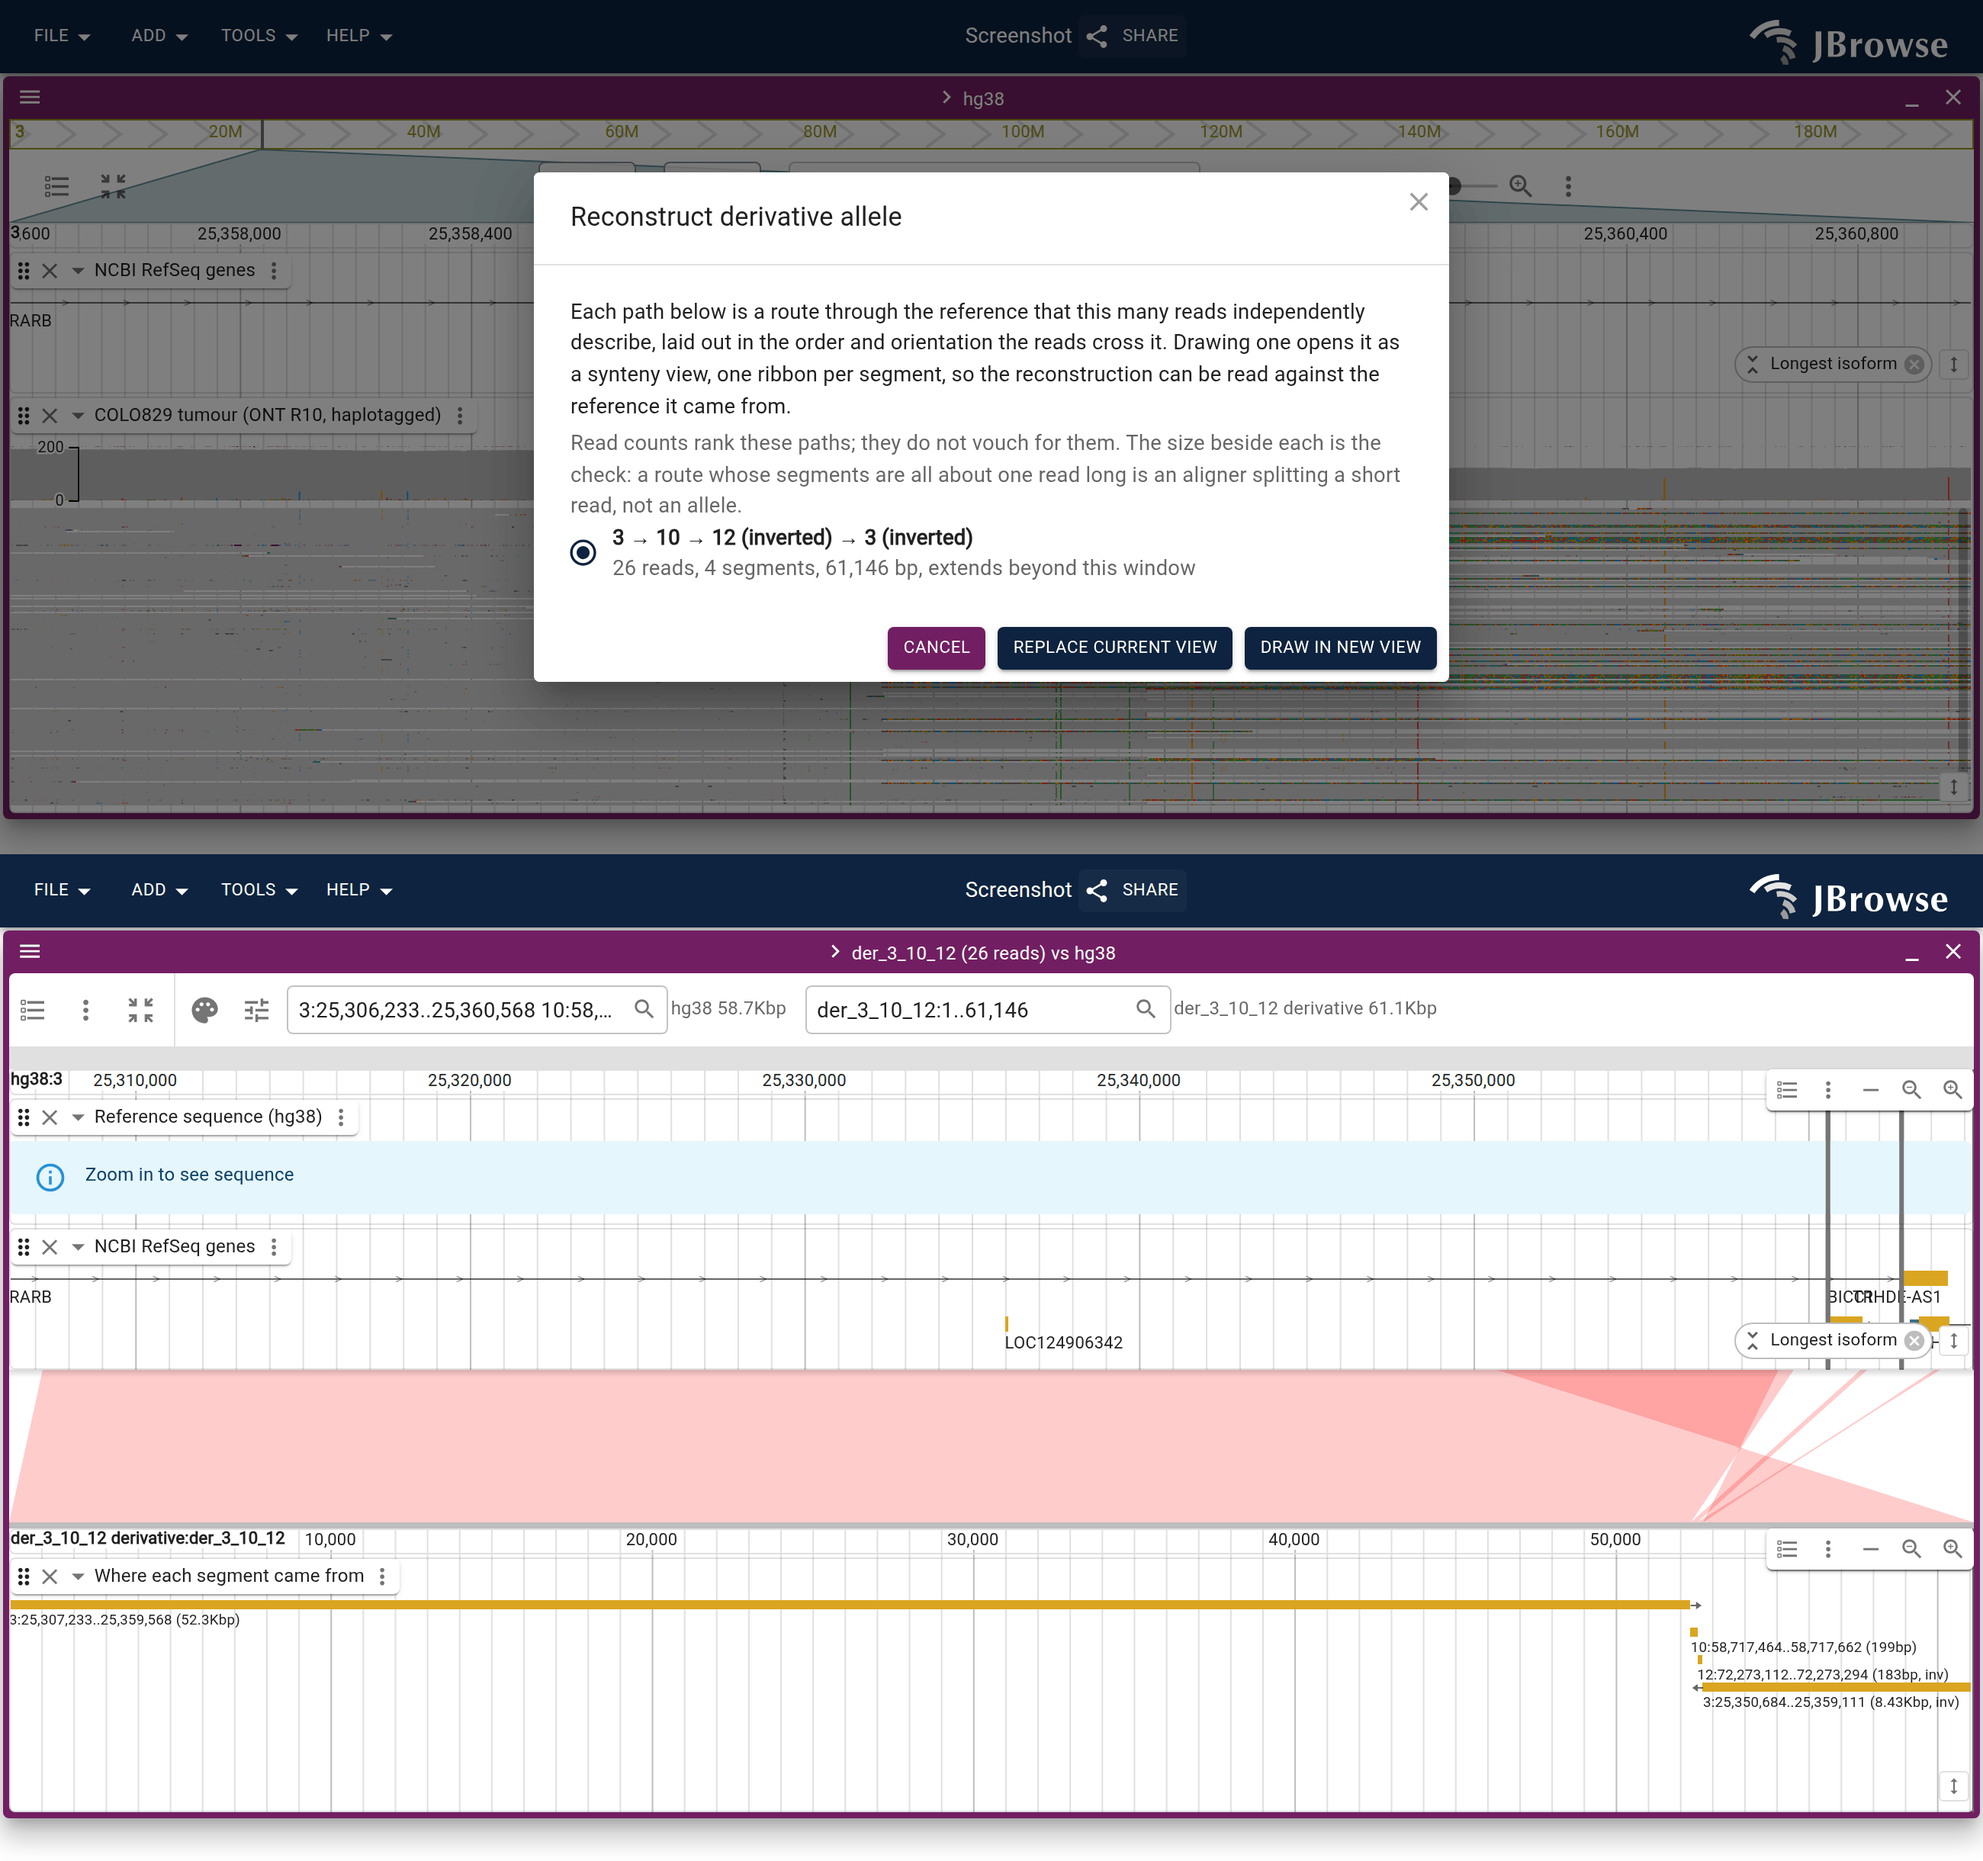
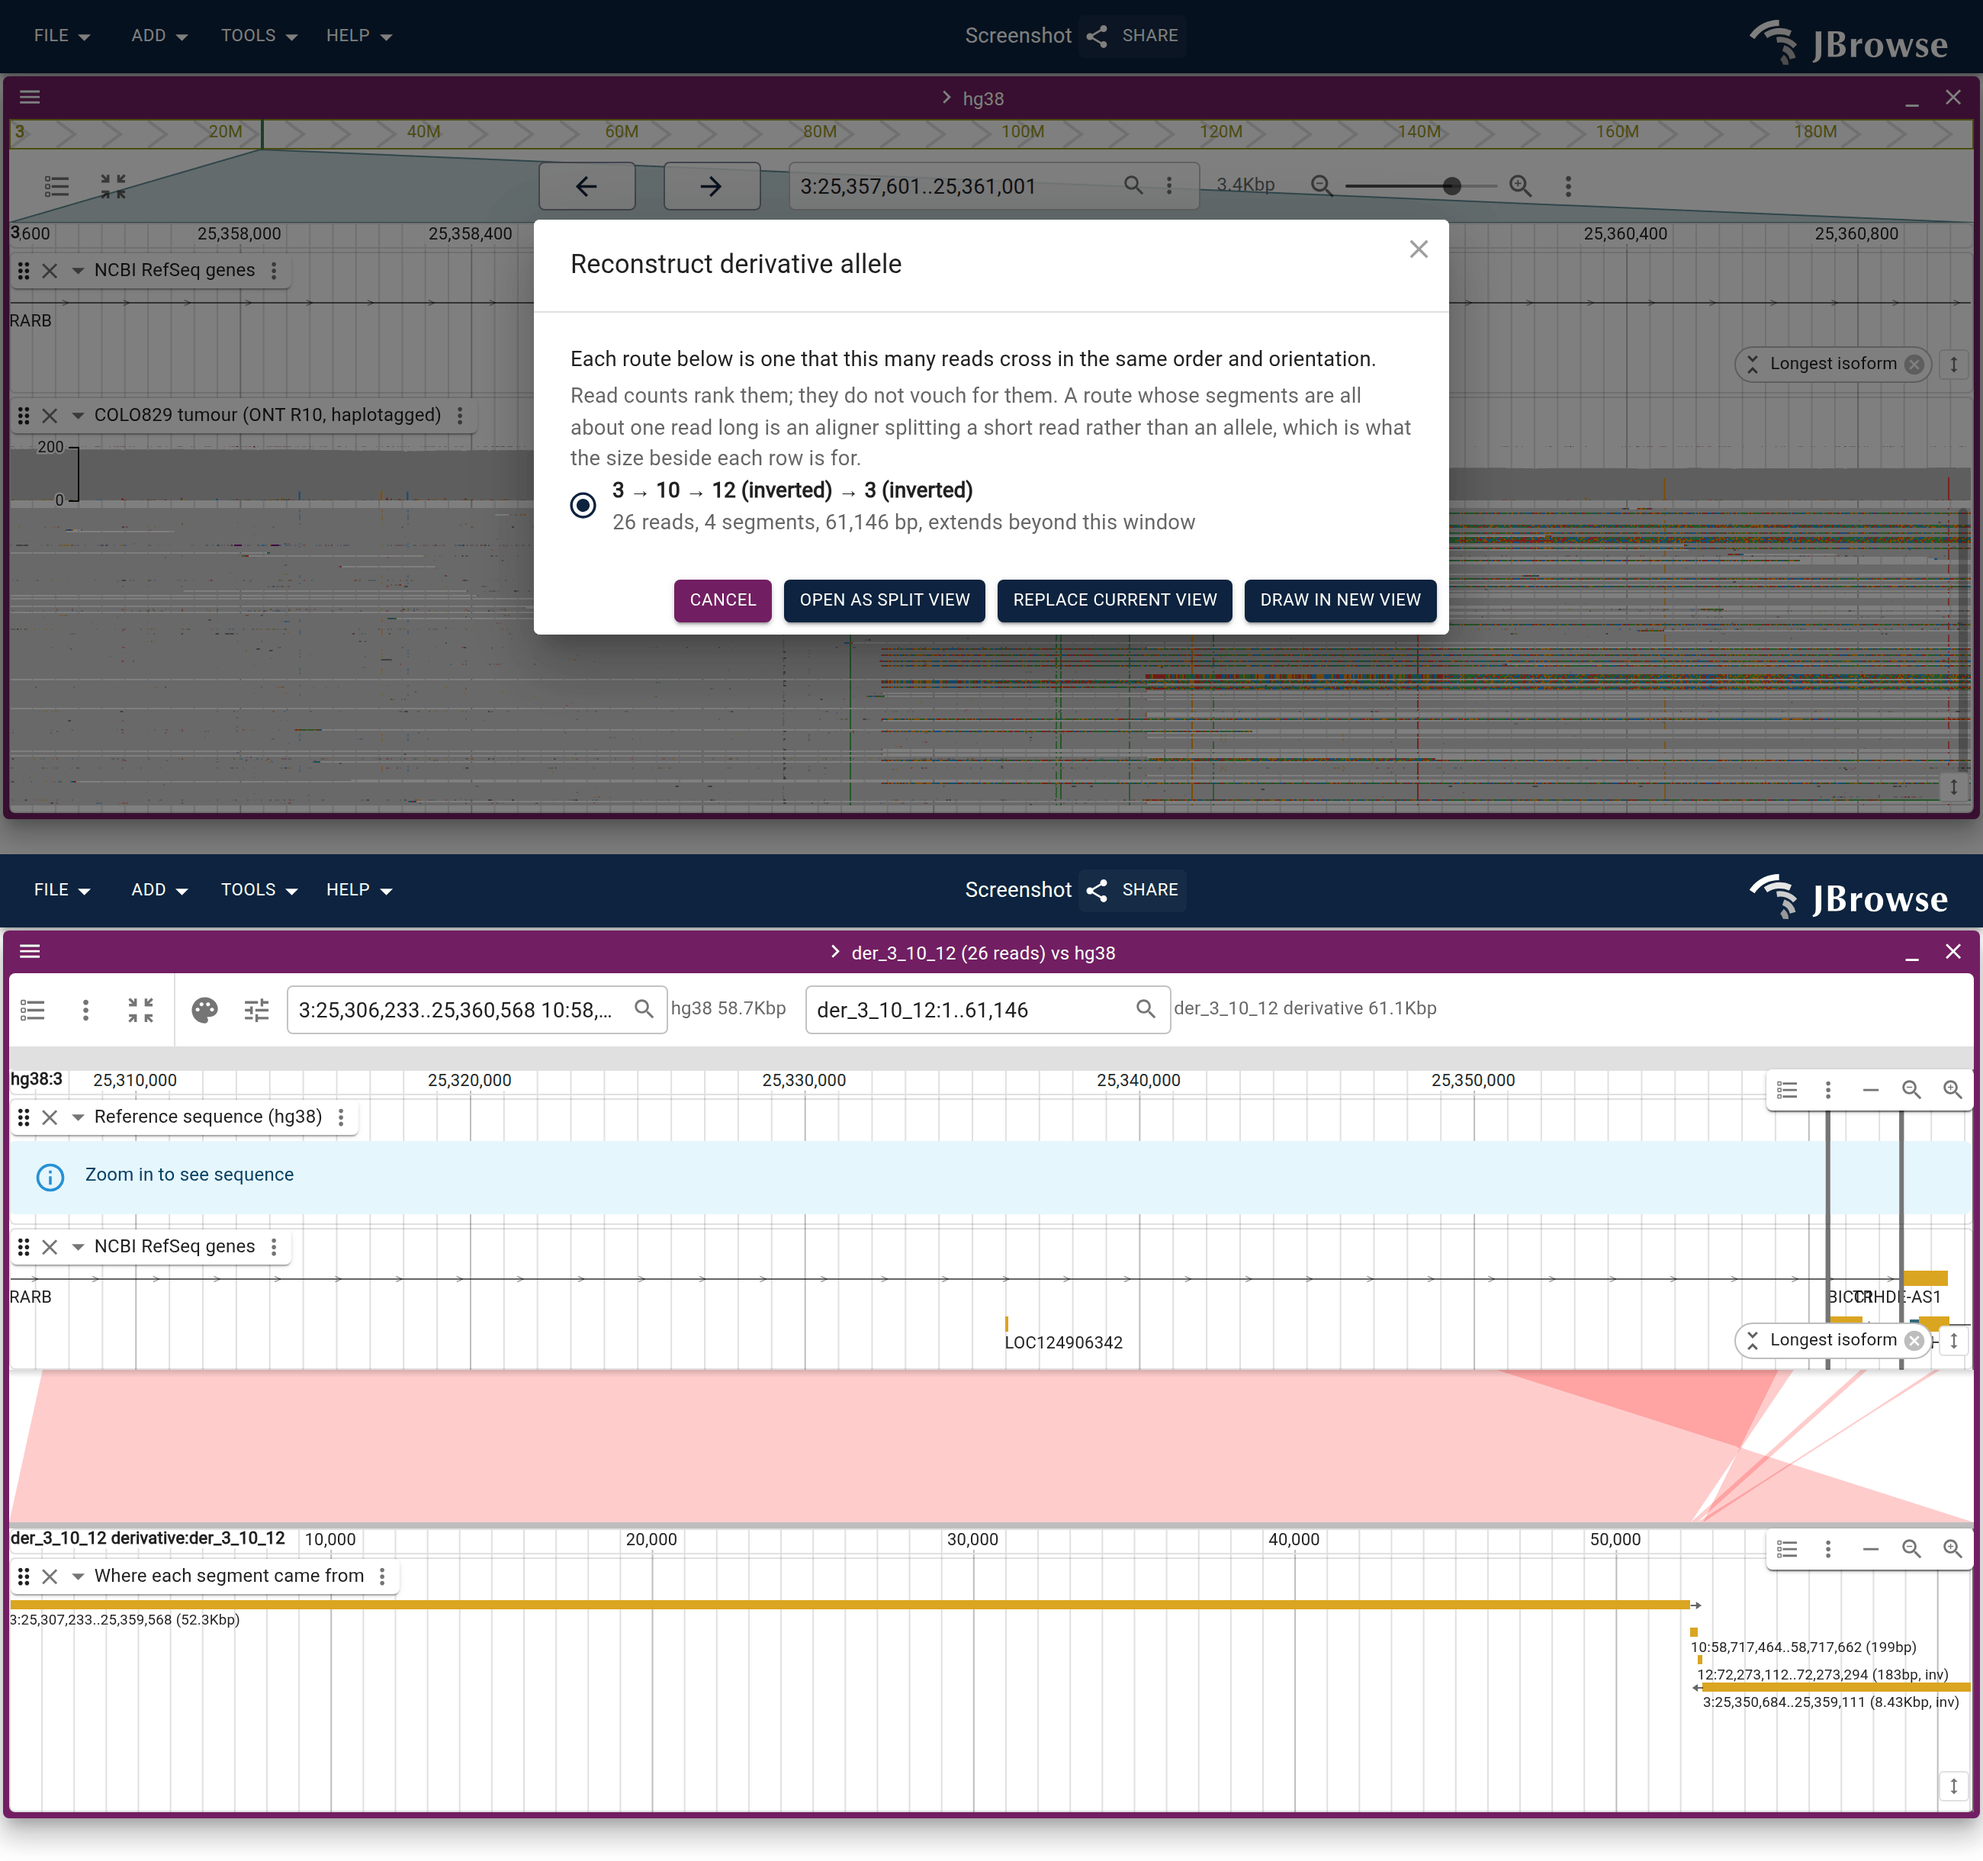
fix(comparative): stop opening the reconstruction dialog with a paragraph
Review: "i do not like the look of the dialog box". It opened with eight lines
of grey text above three short rows -- five explaining what each destination
button draws, which the buttons already say, and three of caveat. What is left
is the sentence saying what a row IS, and the one caveat that changes which row
a reader picks.

The third destination was also the only one on the default text variant, so
"Open as split view" read as a link wedged between two filled buttons: three
ways to say "draw it" in three weights. All three are contained/primary now, and
Cancel stays the odd one out because it is the one that draws nothing.

Regenerated the three figures that show the dialog, including
multihop_split_view_steps, which is not mine but would have gone stale. Its
`button::-p-text(...)` selector keeps its comment, updated: the prose that used
to make a bare text match ambiguous is gone, but naming the element is still
what stops the next sentence from putting the trap back.

Claude-Session: https://claude.ai/code/session_01P3UpExC443R8NyYwCNmy5N

Changed region(s): [[0.2492, 0.0934, 0.7477, 0.3738]]

diff --git a/plugins/linear-comparative-view/src/LinearDerivativeVsRef/LinearDerivativeVsRef.tsx b/plugins/linear-comparative-view/src/LinearDerivativeVsRef/LinearDerivativeVsRef.tsx
@@ -276,6 +276,13 @@ const DerivativeVsRefDialog = observer(function DerivativeVsRefDialog({
             // with no type is a submit button: without this the click runs this
             // handler AND the form's, so the dialog draws the synteny view too
             type="button"
+            // Same variant as the other two destinations. It is one of three
+            // things this dialog can draw, and left on the default text variant
+            // it read as a link between two filled buttons -- three ways to say
+            // "draw it" in three different weights (review: "i do not like the
+            // look of the dialog box").
+            variant="contained"
+            color="primary"
             disabled={candidates.length === 0}
             onClick={() => {
               void onOpenSplitView()
@@ -323,19 +330,24 @@ const DerivativeVsRefDialog = observer(function DerivativeVsRefDialog({
           </Typography>
         ) : (
           <>
+            {/*
+              One line, then the list. This used to open with two paragraphs
+              explaining what each destination button draws (review: "i do not
+              like the look of the dialog box"), which is eight lines of grey
+              text above three short rows -- the buttons already carry those
+              names, and the tutorial carries the rest. What stays is the
+              sentence that says what a row IS, and the one caveat that changes
+              which row a reader picks.
+            */}
             <Typography>
-              Each path below is a route through the reference that this many
-              reads independently describe, laid out in the order and
-              orientation the reads cross it. Drawing one opens it as a synteny
-              view, one ribbon per segment, so the reconstruction can be read
-              against the reference it came from. Open as split view stacks the
-              same loci as reference panels instead, one per segment and in the
-              same order, with the reads that cross between them drawn.
+              Each route below is one that this many reads cross in the same
+              order and orientation.
             </Typography>
             <Typography className={classes.caveat}>
-              Read counts rank these paths; they do not vouch for them. The size
-              beside each is the check: a route whose segments are all about one
-              read long is an aligner splitting a short read, not an allele.
+              Read counts rank them; they do not vouch for them. A route whose
+              segments are all about one read long is an aligner splitting a
+              short read rather than an allele, which is what the size beside
+              each row is for.
             </Typography>
             <RadioGroup
               // the real result of the reconstruction pass, so a screenshot

diff --git a/website/scripts/specs/cancer_sv.ts b/website/scripts/specs/cancer_sv.ts
@@ -387,9 +387,11 @@ export const cancerSvSpecs: ScreenshotSpec[] = [
         ],
       },
       {
-        // `button::-p-text(...)`, not a bare text match: the dialog's own prose
-        // now names this action, so a text selector resolves to the paragraph
-        // -- which is an element, and clicking it succeeds and does nothing
+        // `button::-p-text(...)`, not a bare text match. The dialog's prose used
+        // to name this action too, so a text selector resolved to the paragraph
+        // -- an element, which clicks successfully and does nothing. That prose
+        // is gone now, but the selector stays: it says which element it means,
+        // and the next sentence added to the dialog would put the trap back.
         actions: [
           { type: 'click', selector: 'button::-p-text(Open as split view)' },
         ],
